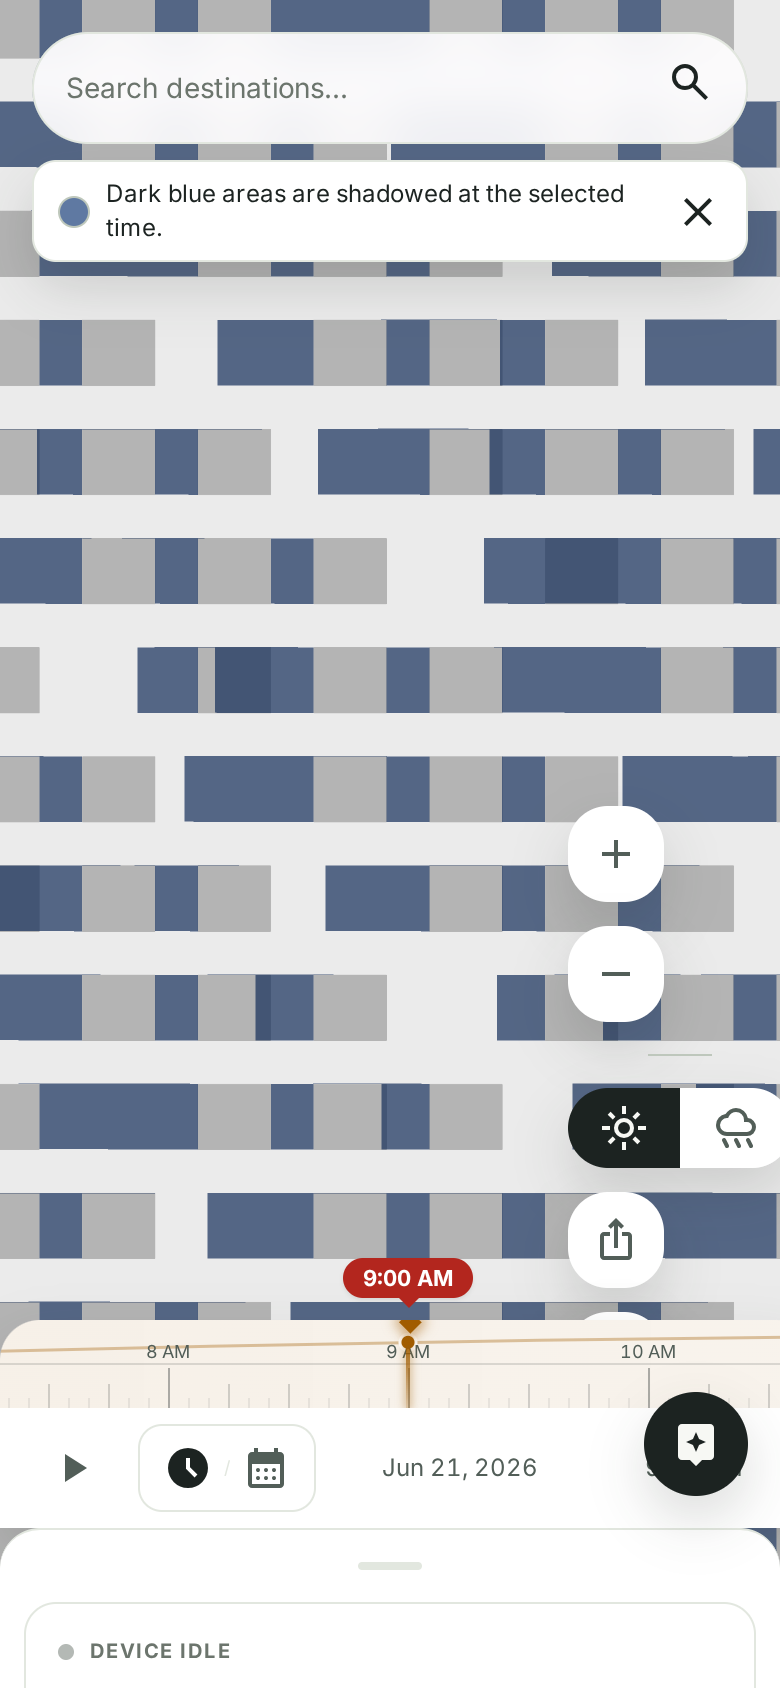
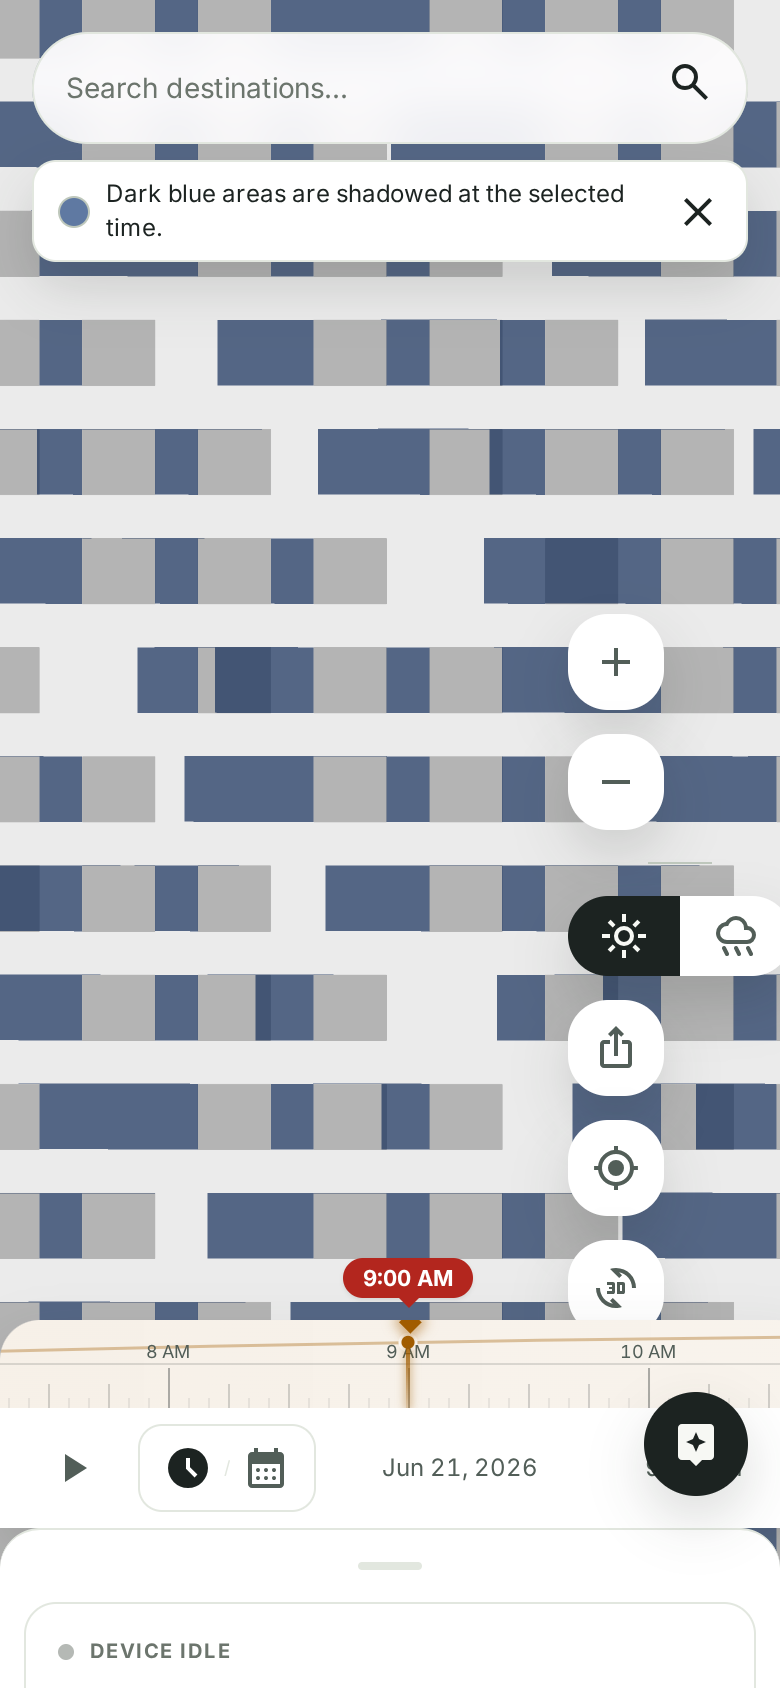
fix(u4): review findings — controls/timeline overlap, collapsed band, drag gate
interface-reviewer found the raised timeline card painting over the
floating map controls (their bottom now rides the same choreography), the
collapsed band still clipping the trip bar (content padding yields, a
collapse resets stale scroll, and the panel leads with the bar flush to
the band — 43 of 44px rendered, the sheet's 1px border takes one), and
the drag gate stealing the bar's top 8px (gate is now the handle's own
band). Audit + brief updated; desktop-only warning gap and the
radiogroup-of-pressed-buttons ARIA pattern filed for the scribe.

Changed region(s): [[0.7077, 0.3697, 1.0, 0.8009]]

diff --git a/app/components/BottomSheet.tsx b/app/components/BottomSheet.tsx
@@ -54,6 +54,13 @@ export default function BottomSheet({ snap, onSnapChange, children, collapsedHei
     if (draggingRef.current) return;
     const vh = window.innerHeight;
     setHeight(snapToPixels(snap, vh, collapsedHeight));
+    // Collapsing with a stale scroll position would leave the collapsed
+    // band showing mid-content (the browser preserves scrollTop); the band
+    // is exactly one trip bar tall, so it always starts at the top (U4).
+    if (snap === "collapsed" && sheetRef.current) {
+      const content = sheetRef.current.querySelector<HTMLDivElement>("div.flex-1");
+      if (content) content.scrollTop = 0;
+    }
   }, [snap, collapsedHeight]);
 
   // Animate to target height
@@ -82,10 +89,15 @@ export default function BottomSheet({ snap, onSnapChange, children, collapsedHei
   }, [onSnapChange]);
 
   const onPointerDown = useCallback((e: React.PointerEvent) => {
-    // Only respond to drag handle area (top 44px minimum touch target)
+    // Only respond to drag handle area — the handle's own band, so a tap on
+    // the content below it (the trip bar, prime thumb zone) never starts a
+    // drag. At the collapsed snap that band is 36px; the sheet's top 44px
+    // otherwise. The 36px band is still the drag affordance; the content's
+    // own 44px targets sit below it untouched (U4).
     const rect = sheetRef.current?.getBoundingClientRect();
     if (!rect) return;
-    if (e.clientY < rect.top || e.clientY > rect.top + 44) return;
+    const gate = snap === "collapsed" ? 36 : 44;
+    if (e.clientY < rect.top || e.clientY > rect.top + gate) return;
 
     if (animRef.current !== null) {
       cancelAnimationFrame(animRef.current);
@@ -174,8 +186,11 @@ export default function BottomSheet({ snap, onSnapChange, children, collapsedHei
         <div className="w-8 h-1 rounded-full" style={{ background: "var(--color-hairline)" }} />
       </div>
 
-      {/* Content */}
-      <div className="flex-1 overflow-y-auto overflow-x-hidden overscroll-contain px-3 pb-3 umbra-scrollbar">
+      {/* Content — the bottom padding yields to the collapsed band (U4): at
+          80px the trip bar needs the full 36+44, so pb-3 would clip it. */}
+      <div
+        className={`flex-1 overflow-y-auto overflow-x-hidden overscroll-contain px-3 umbra-scrollbar ${isCollapsed ? "" : "pb-3"}`}
+      >
         {children}
       </div>
     </div>

diff --git a/app/components/DirectionsPanel.tsx b/app/components/DirectionsPanel.tsx
@@ -170,7 +170,18 @@ export default function DirectionsPanel({
   }
 
   return (
-    <div className="flex flex-col gap-3 p-3">
+    <div className={`flex flex-col gap-3 px-3 pb-3 ${showForm ? "pt-3" : "pt-0"}`}>
+      {/* Collapsed trip bar leads the panel (U4): with options on screen the
+          sheet's collapsed band is exactly one trip bar tall, so the bar —
+          the band's whole job — must be the panel's first child, flush to the
+          band's top. Reopening the form restores the normal order. */}
+      {!showForm && (
+        <TripSummaryBar
+          from={waypointALabel ?? "Start"}
+          to={waypointBLabel ?? "Destination"}
+          onEdit={() => setEditing(true)}
+        />
+      )}
       {/* Header */}
       <div className="flex items-center justify-between">
         <button type="button"
@@ -506,13 +517,7 @@ export default function DirectionsPanel({
         </button>
       </div>
         </>
-      ) : (
-        <TripSummaryBar
-          from={waypointALabel ?? "Start"}
-          to={waypointBLabel ?? "Destination"}
-          onEdit={() => setEditing(true)}
-        />
-      )}
+      ) : null}
       {isCalculating && routeProgress && (
         <div
           role="status"

diff --git a/app/page.tsx b/app/page.tsx
@@ -1147,8 +1147,14 @@ export default function Home() {
         />
       )}
 
-      {/* Floating map controls — right side */}
-      <div className="absolute bottom-20 md:top-24 md:bottom-auto right-3 z-10">
+      {/* Floating map controls — right side. Their bottom rides the same
+          choreography as the timeline card below them (U4): timeline at
+          0–~88px with no sheet, at 80–~168px over the collapsed band, under
+          the sheet otherwise. */}
+      <div
+        className="absolute md:top-24 md:bottom-auto right-3 z-10"
+        style={{ bottom: menuOpen && bottomSheetSnap === "collapsed" ? 176 : 96 }}
+      >
         <FloatingMapControls
           mapRef={mapRef}
           pitch={mapPitch}

diff --git a/docs/notes/touch-target-audit.md b/docs/notes/touch-target-audit.md
@@ -12,10 +12,11 @@ Scope: timeline slider, day slider, bottom sheet, and floating map controls for 
 | Day scrubber | Pass | Track is 48px tall and draggable across the full width. |
 | Timeline controls row | Fixed | Play, time/day toggle, time input, date input, and year controls now expose at least 44px height. |
 | Bottom sheet drag handle | Fixed | Pointer capture area increased from 32px to 44px, with a 44px handle row. U4: the *visual* handle row yields to 36px while the sheet is settled at the collapsed snap, so the 80px band fits the trip bar's full 44px target below it; the drag gate still accepts pointers in the top 44px. |
-| Collapsed-sheet trip bar (U4) | Fixed | Previously the 80px collapsed band left the trip bar ~36px. With the 36px collapsed handle row, the bar's 44px minimum (`min-h-11`) now fits fully inside the band — prime thumb-zone (Fitts). |
+| Collapsed-sheet trip bar (U4) | Fixed | The 80px collapsed band previously clipped the bar to ~36px, and a stale content `scrollTop` could scroll it out of the band entirely. Now: the handle row yields to 36px when settled at collapsed, the content's bottom padding yields too, a collapse resets content scroll to the top, and the panel leads with the trip bar (flush to the band). Verified at 390×844: the bar renders 43px of its 44px (the sheet's 1px border takes one), hit area intact — prime thumb-zone (Fitts). The drag gate is the handle's own 36px at collapsed, so a bar tap never starts a drag; the gate is the full 44px at taller snaps. |
 | Floating map controls | Pass | Buttons are 48px square and remain bottom-right on mobile, above the bottom sheet. |
 | Segmented controls in the reopened directions form (U4) | Fixed | Walk/Transit tabs, Sun/Rain selector and Walk/Bike/Scoot travel tabs were `py-1` (~25px tall). All three now carry `min-h-11` rows (44px). Walk/Transit also gained `aria-pressed`. |
 | Mobile search bar over directions (U4) | Fixed | The floating search pill no longer renders during DIRECTIONS/NAVIGATING — it previously sat half over the sheet's planning form and read as a search panel slid open over the navigation card. In IDLE/PLACE_DETAIL/ARRIVAL it is unchanged. |
+| Floating map controls vs raised timeline (U4, review finding) | Fixed | The timeline card now rides above the collapsed band (80–~168px); the floating map controls' bottom rides the same choreography (96px, or 176px over the band) so locate-me/share/rain are never painted under the card. |
 
 ## Thumb Reach
 

diff --git a/docs/tracks/TRACK_U.md b/docs/tracks/TRACK_U.md
@@ -26,14 +26,21 @@ accordingly. Subagents stay read-only here, per the repo rule.
   card type remain for the scribe/U5.
 - **U4's code:** sun-arc glyph on the timeline ruler (thin sun path + horizon, sun dot at
   the slider's time, sun hue, aria-hidden — data, not chrome); tick ruler memoised so
-  drag-time re-renders move only the sun dot; collapsed sheet's handle yields to 36px so
-  the trip bar keeps its full 44px band (Fitts); Walk/Transit, Sun/Rain and travel-mode
-  segmented controls at 44px rows with `aria-pressed`; the mobile search pill is hidden
-  during DIRECTIONS/NAVIGATING so it never slides over the navigation card; the
-  partial/failed notice rides above the weakest viable card once the stack passes three
-  options (serial position); SavedRoutesSection's divider is hairline-strong against the
-  planning form (proximity); FloatingRouteCards gained the panel's `role="radiogroup"` +
-  `aria-label`. Touch-target audit updated in place.
+  drag-time re-renders move only the sun dot; the mobile timeline wrapper's stray
+  `relative` removed (it beat `absolute` in Tailwind's output order — the whole card was
+  offscreen at phone widths); the timeline rides above the sheet's collapsed band and the
+  floating map controls ride the same choreography; the collapsed sheet's handle yields
+  to 36px, content padding and stale scroll yield too, and the panel leads with the trip
+  bar so the band shows it flush (43 of 44px rendered — the sheet's 1px border takes one;
+  hit area intact); Walk/Transit, Sun/Rain and travel-mode segmented controls at 44px
+  rows with `aria-pressed`; the mobile search pill is hidden during
+  DIRECTIONS/NAVIGATING so it never slides over the navigation card; the partial/failed
+  notice rides above the weakest viable card once the stack passes three options (serial
+  position); SavedRoutesSection's divider is hairline-strong against the planning form
+  (proximity); FloatingRouteCards gained the panel's `role="radiogroup"` + `aria-label`
+  (the radiogroup-of-aria-pressed-buttons semantics are imperfect ARIA — pre-existing
+  pattern, filed for the scribe). Touch-target audit updated in place. Review findings
+  fixed in the same PR: controls/timeline overlap, stale-scroll band, drag-gate overlap.
 - **Implemented:** U0 (harness, PR #465), U1 (research + candidates + sign-off, PR #470,
   port #51), U2 (Canopy language, port PR #60 / private #479 — merge = visual sign-off),
   U3 (PR #63, open).
